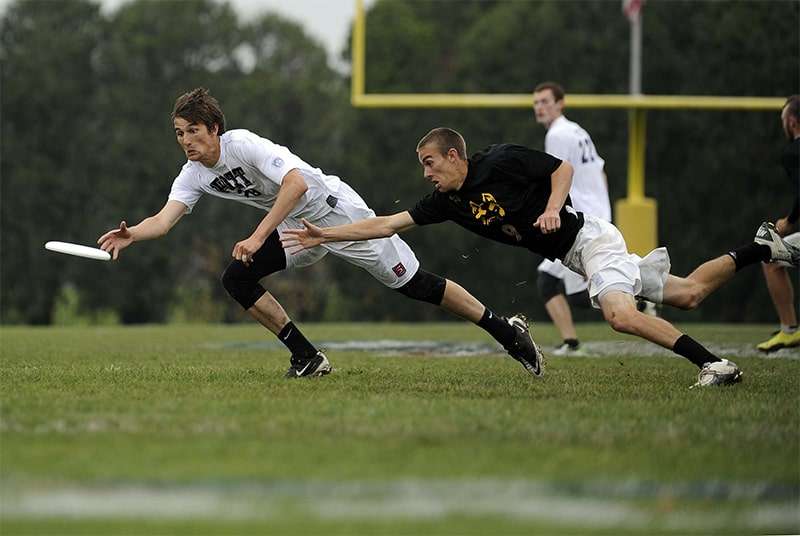
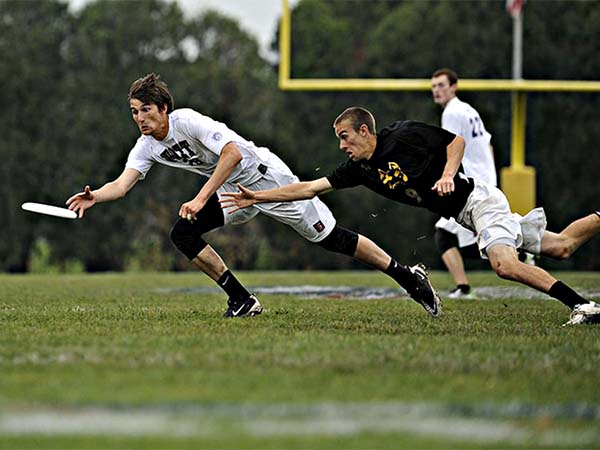
I believe I am finishin Restaurant 5

diff --git a/index.html b/index.html
@@ -47,7 +47,7 @@
     <source media="(max-width: 600px)" srcset="Images/FrisbeeHero/Hero_600.jpg">
     <source media="(max-width: 750px)" srcset="Images/FrisbeeHero/Hero_750.jpg">
     <source media="(max-width: 950px)" srcset="Images/FrisbeeHero/Hero_950.jpg">
-    <source media="(max-width: 1100px)" srcset="Images/FrisbeeHero/Hero_1100.jpg">
+    <source media="(max-width: 1100px)" srcset="Images/FrisbeeHero/Hero_950.jpg">
     <img src="Images/FrisbeeHero/Hero_Main.jpg" alt="Frisbee Image">
   </picture>
 </div>
@@ -61,9 +61,9 @@
     <div class="mainimage">
     <picture>
       <source media="(max-width: 200px)" srcset="Images/Main_Page_Hero/UF1.jpg">
-      <source media="(max-width: 500px)" srcset="Images/Main_Page_Hero/UF2.jpg">
-      <source media="(max-width: 800px)" srcset="Images/Main_Page_Hero/UF3.jpg">
-      <source media="(max-width: 1000px)" srcset="Images/Main_Page_Hero/UF4.jpg">
+      <source media="(max-width: 400px)" srcset="Images/Main_Page_Hero/UF2.jpg">
+      <source media="(max-width: 600px)" srcset="Images/Main_Page_Hero/UF3.jpg">
+      <source media="(max-width: 800px)" srcset="Images/Main_Page_Hero/UF4.jpg">
       <img src="Images/Main_Page_Hero/ultimate-frisbee.jpg" alt="Two men diving for a frisbee">
     </picture>
 

diff --git a/css/styles.css b/css/styles.css
@@ -515,7 +515,7 @@ main {
   main picture img {
     width: 100%; }
   main picture {
-    width: 100%;
+    width: 50%;
     margin: 0; }
   main div#pictureTag {
     text-align: center;

diff --git a/scss/_small.scss b/scss/_small.scss
@@ -169,7 +169,7 @@ main {
 }
 
  picture {
-    width: 100%;
+    width: 50%;
     margin: 0;
 }
 
